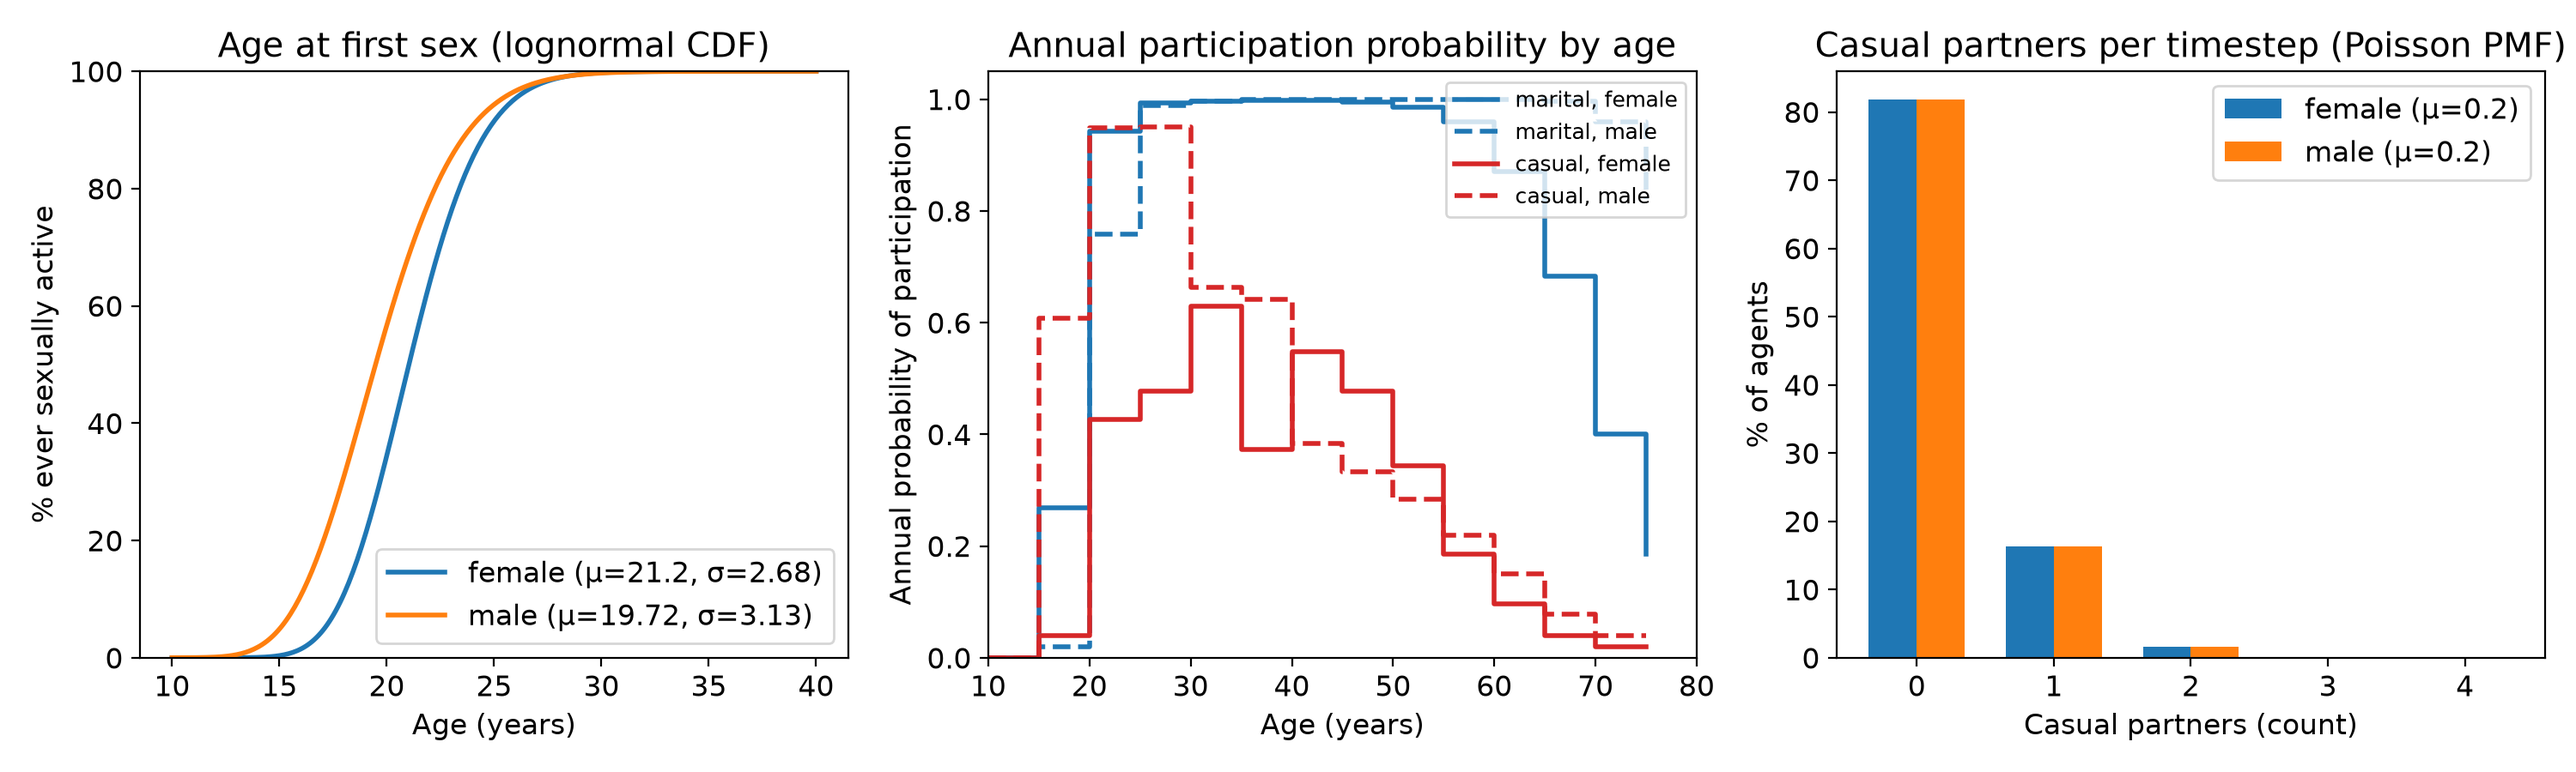
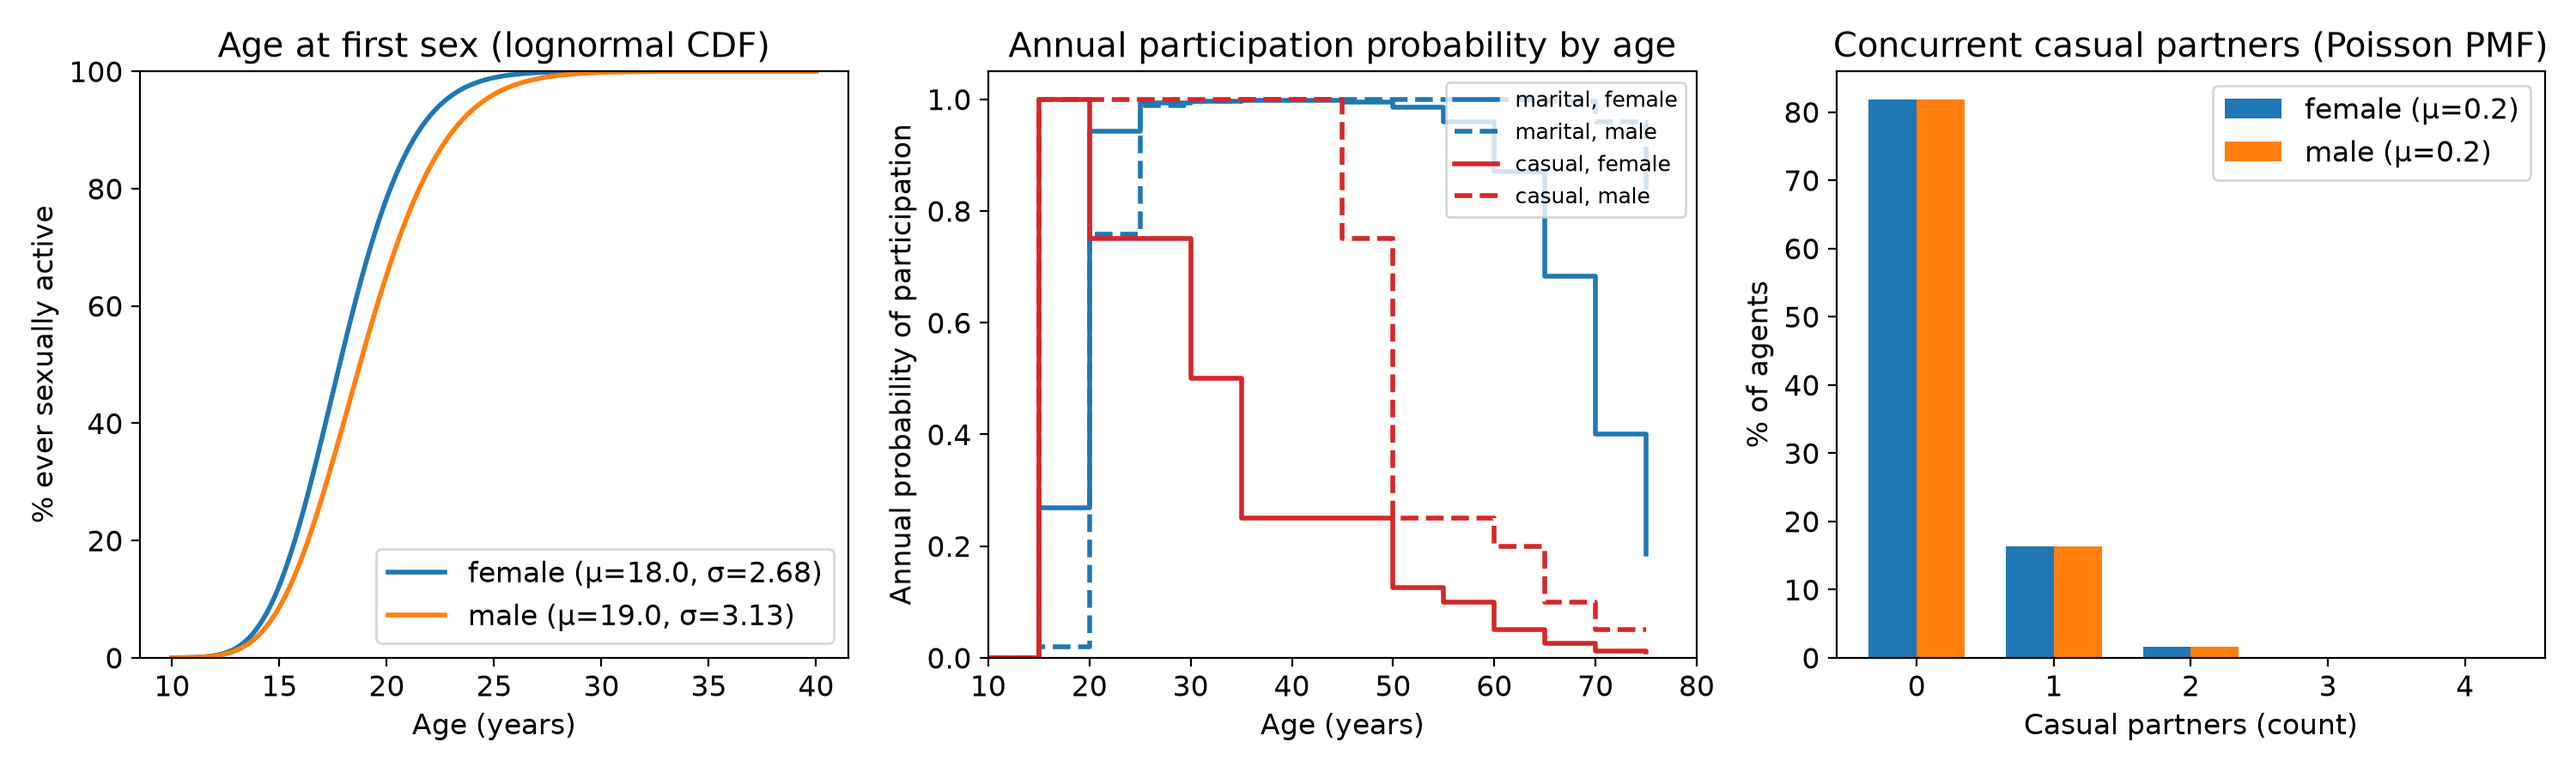
Fix plot_figS1_behavior.py: read pars from network_pars().
The script referenced stale module-level constants (_KAZAKHSTAN_DEBUT,
_KAZAKHSTAN_LAYER_PROBS, _KAZAKHSTAN_{M,F}_PARTNERS) that were removed
in the v3.1 model.py refactor. It now reads from network_pars() so the
figure tracks any future edits to the sexual-network parameters.

Regenerate figS1_behavior.png against the current model.

diff --git a/plot_figS1_behavior.py b/plot_figS1_behavior.py
@@ -2,10 +2,11 @@
 Plot sexual behavior in the Kazakhstan model (no sim required).
 
 Three panels:
-  (A) Age at first sex CDF: lognormal debut (per sex) from _KAZAKHSTAN_DEBUT.
-  (B) Annual participation probability by age band (marital + casual, per sex)
-      from _KAZAKHSTAN_LAYER_PROBS.
-  (C) Casual-layer partner-count PMF: Poisson mean par1 (per sex).
+  (A) Age at first sex CDF: lognormal debut (per sex).
+  (B) Annual participation probability by age band (marital + casual, per sex).
+  (C) Casual-layer partner-count PMF: Poisson mean (per sex).
+
+All values are read from ``model.network_pars()`` at run time.
 
 Usage:
   python plot_figS1_behavior.py
@@ -16,6 +17,9 @@ import scipy.stats as sps
 
 import model as md
 import utils as ut
+
+
+NETWORK_PARS = md.network_pars()
 
 
 def _lognorm_from_mean_std(mean, std):
@@ -30,9 +34,11 @@ def _plot_debut(ax):
     ax.set_title('Age at first sex (lognormal CDF)')
     x = np.linspace(10, 40, 300)
     for sex, color, label in (('f', 'C0', 'female'), ('m', 'C1', 'male')):
-        p = md._KAZAKHSTAN_DEBUT[sex]
-        rv = _lognorm_from_mean_std(p['par1'], p['par2'])
-        ax.plot(x, rv.cdf(x) * 100, color=color, lw=2, label=f'{label} (μ={p["par1"]}, σ={p["par2"]})')
+        dist = NETWORK_PARS[f'debut_{sex}']
+        mean, std = dist.pars['mean'], dist.pars['std']
+        rv = _lognorm_from_mean_std(mean, std)
+        ax.plot(x, rv.cdf(x) * 100, color=color, lw=2,
+                label=f'{label} (μ={mean}, σ={std})')
     ax.set_xlabel('Age (years)')
     ax.set_ylabel('% ever sexually active')
     ax.set_ylim(0, 100)
@@ -42,12 +48,12 @@ def _plot_debut(ax):
 def _plot_layer_probs(ax):
     ax.set_title('Annual participation probability by age')
     for layer, sex, color, ls, label in (
-        ('m', 'f', 'C0', '-',  'marital, female'),
-        ('m', 'm', 'C0', '--', 'marital, male'),
-        ('c', 'f', 'C3', '-',  'casual, female'),
-        ('c', 'm', 'C3', '--', 'casual, male'),
+        ('marital', 'f', 'C0', '-',  'marital, female'),
+        ('marital', 'm', 'C0', '--', 'marital, male'),
+        ('casual',  'f', 'C3', '-',  'casual, female'),
+        ('casual',  'm', 'C3', '--', 'casual, male'),
     ):
-        arr = md._KAZAKHSTAN_LAYER_PROBS[layer]
+        arr = NETWORK_PARS[f'layer_probs_{layer}']
         bins, probs = arr[0, :], arr[1 if sex == 'f' else 2, :]
         ax.step(bins, probs, where='post', color=color, ls=ls, lw=2, label=label)
     ax.set_xlabel('Age (years)')
@@ -58,15 +64,16 @@ def _plot_layer_probs(ax):
 
 
 def _plot_partners(ax):
-    ax.set_title('Casual partners per timestep (Poisson PMF)')
+    ax.set_title('Concurrent casual partners (Poisson PMF)')
     max_k = 4
     ks = np.arange(0, max_k + 1)
     width = 0.35
     for i, (sex, color, label) in enumerate((('f', 'C0', 'female'), ('m', 'C1', 'male'))):
-        par1 = (md._KAZAKHSTAN_F_PARTNERS if sex == 'f' else md._KAZAKHSTAN_M_PARTNERS)['c']['par1']
-        pmf = sps.poisson.pmf(ks, mu=par1)
+        lam = NETWORK_PARS[f'{sex}_partners_casual']
+        pmf = sps.poisson.pmf(ks, mu=lam)
         offset = (i - 0.5) * width
-        ax.bar(ks + offset, pmf * 100, width=width, color=color, label=f'{label} (μ={par1})')
+        ax.bar(ks + offset, pmf * 100, width=width, color=color,
+               label=f'{label} (μ={lam})')
     ax.set_xticks(ks)
     ax.set_xlabel('Casual partners (count)')
     ax.set_ylabel('% of agents')
